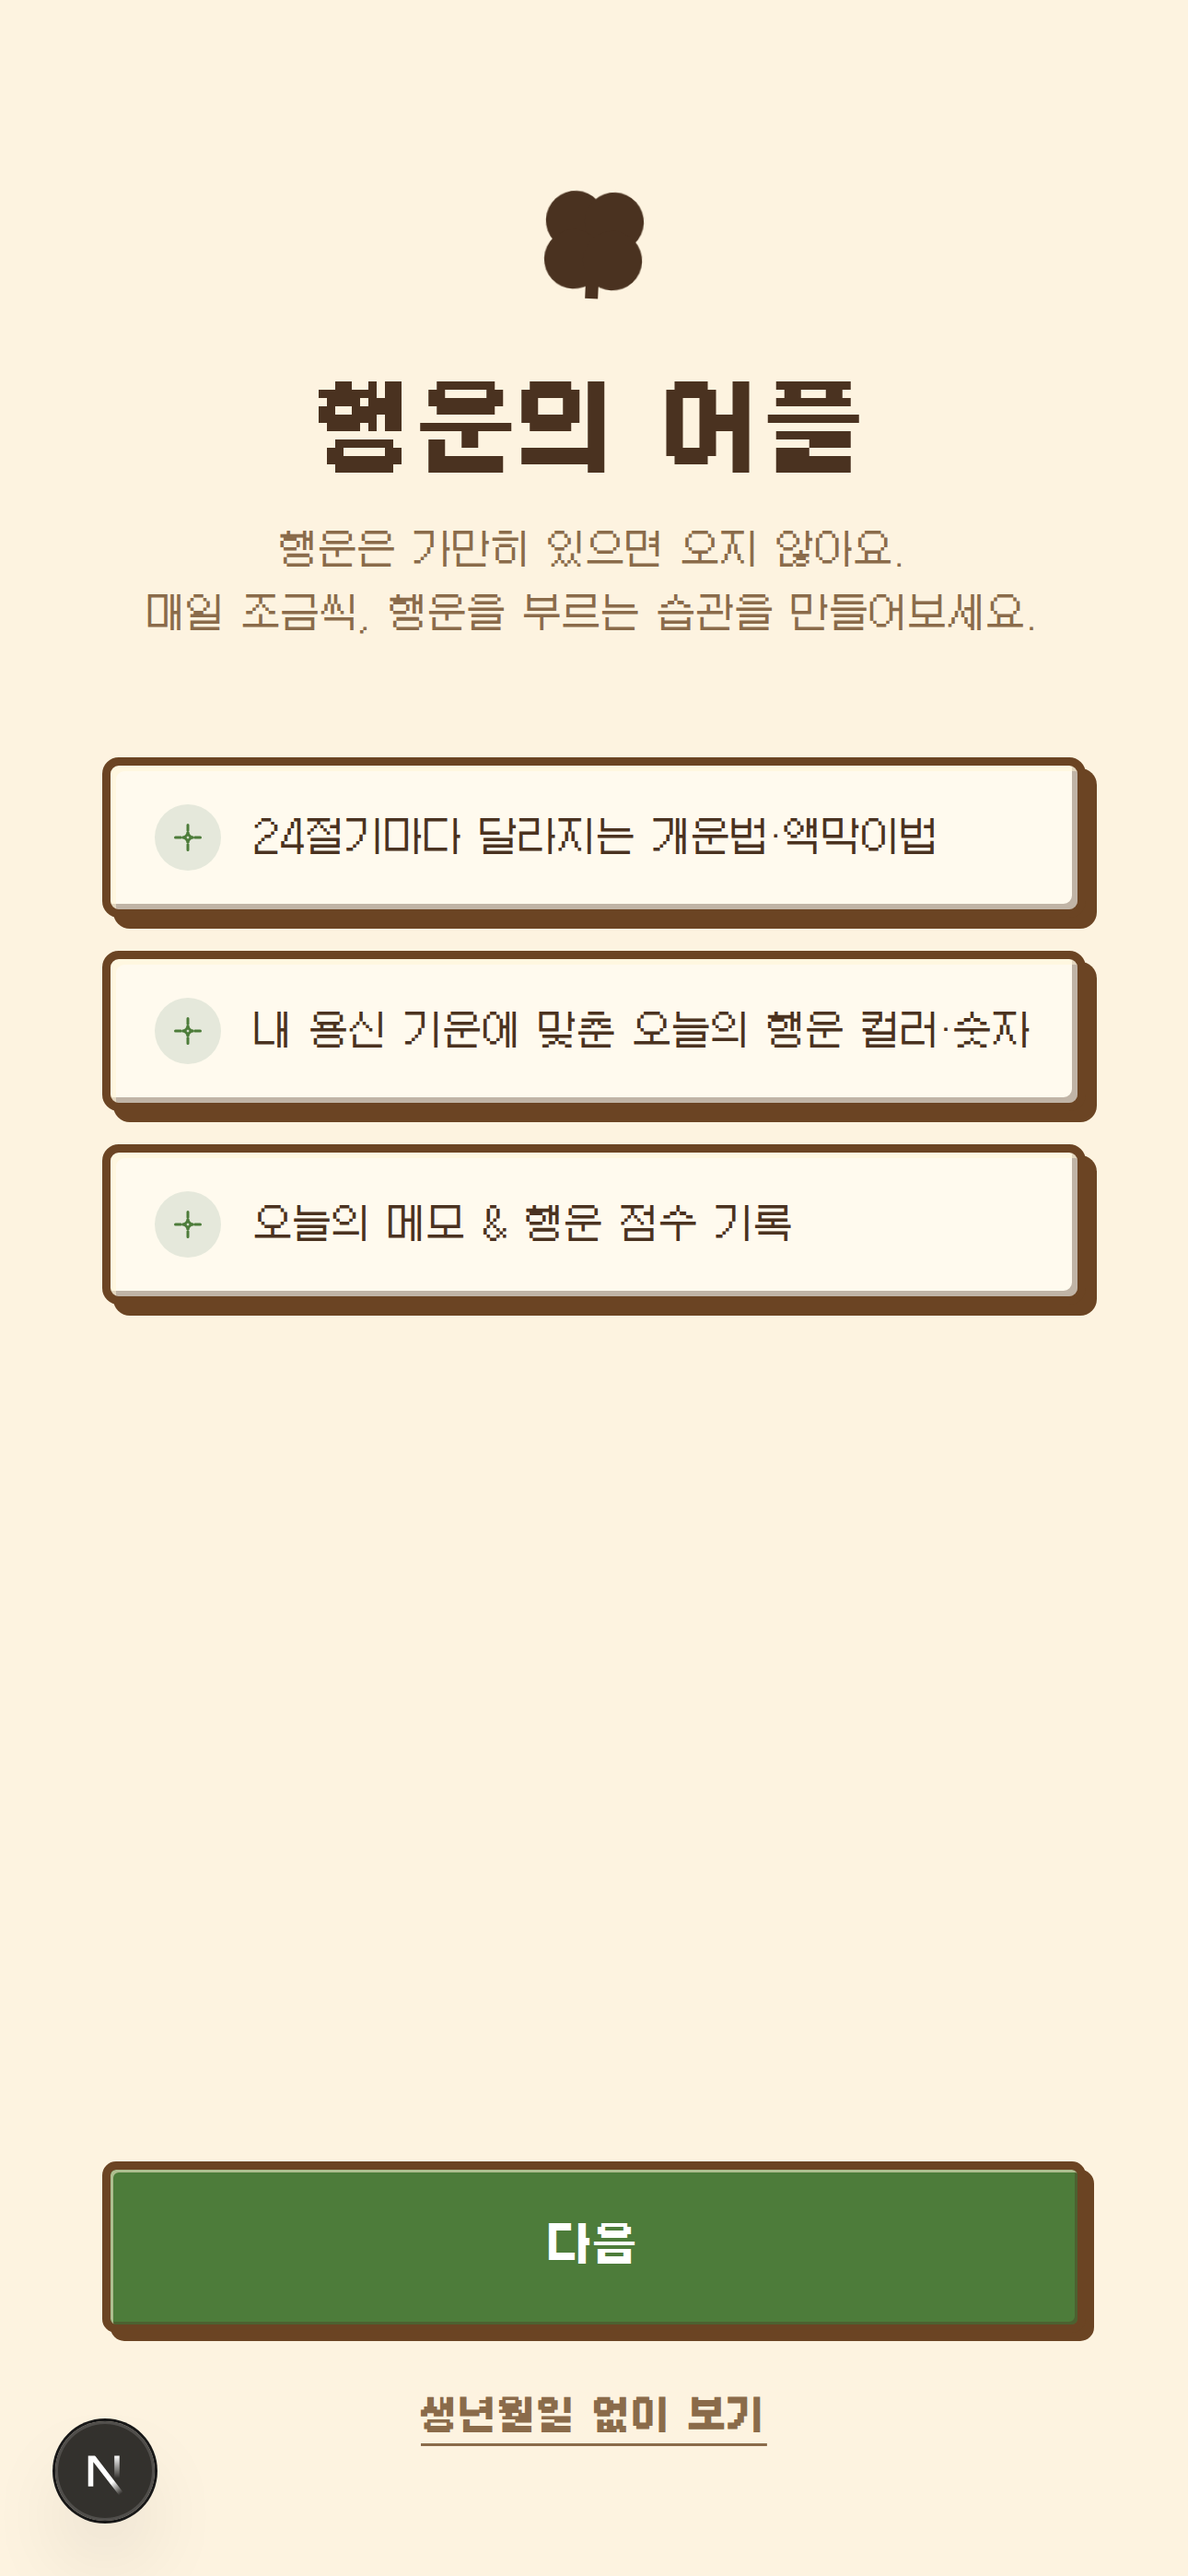
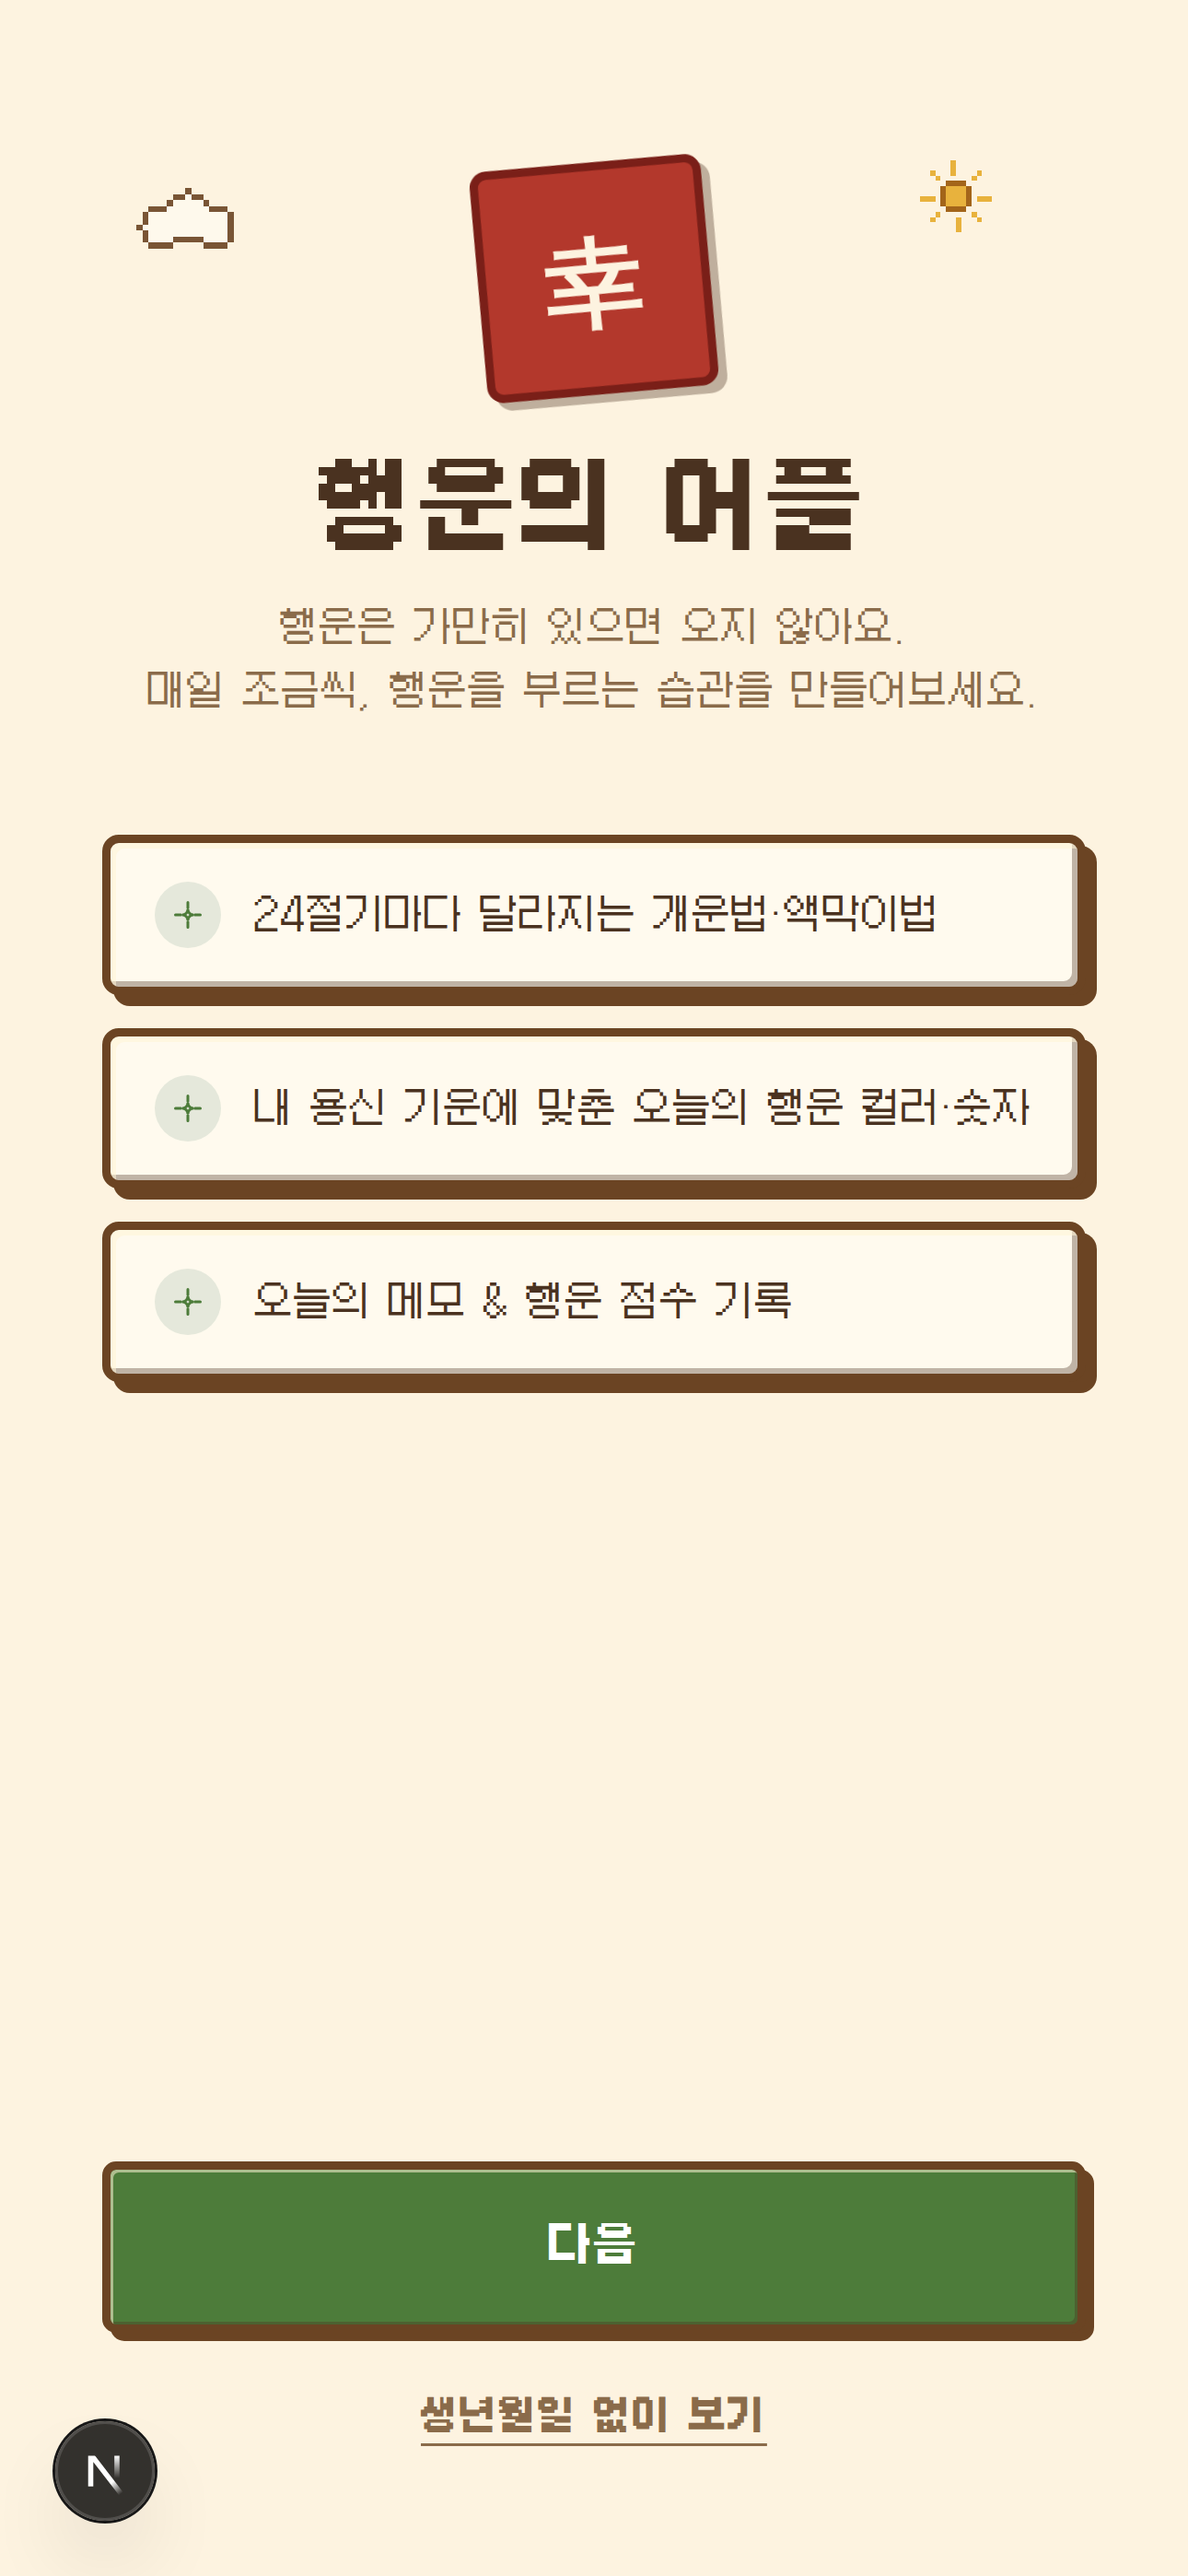
행운의 어플 — 픽셀아트 장식 추가 (해·구름·복주머니·행운 도장)
밋밋한 나무 패널 박스에 개성을 더하기 위해 좌표 계산 기반 픽셀아트 그래픽을 추가:
- components/PixelArt.tsx: 원/타원 방정식으로 실루엣을 만들고 가장자리만 다른 색으로
  칠해 픽셀아트 윤곽을 그리는 유틸 (makeMask/unionMask/outlineify/mergeGrids)
- components/LuckArt.tsx:
  · SunPixel/CloudPixel — 절기·날씨 맥락에 맞춘 해·구름 도트 장식 (헤더에 배치)
  · PouchPixel — 한국 전통 복주머니를 픽셀아트로, "행운 부르기" 카드 타이틀에 배치
  · LuckStamp — "幸" 글자를 담은 전통 도장(스탬프) 배지, 온보딩 첫 화면의 메인
    비주얼로 사용해 "행운"을 실제 그래픽 요소로 디자인화

Claude-Session: https://claude.ai/code/session_01QuVwrwWKVQ7ikTApTJqUn8

Changed region(s): [[0.062, 0.0622, 0.9302, 0.5601], [0.7752, 0.0622, 0.8372, 0.0933]]

diff --git a/luck-app/components/LuckArt.tsx b/luck-app/components/LuckArt.tsx
@@ -1,0 +1,90 @@
+"use client";
+import { PixelArt, makeMask, unionMask, outlineify, mergeGrids, type Grid } from "@/components/PixelArt";
+
+type ArtProps = { size?: number; className?: string; style?: React.CSSProperties };
+
+// ── 해 ────────────────────────────────────────────────────────────────────
+const SUN_W = 16, SUN_H = 16;
+function sunGrid(): Grid {
+  const cx = 8, cy = 8;
+  const core = makeMask(SUN_W, SUN_H, (x, y) => Math.hypot(x - cx, y - cy) <= 3.2);
+  const rayMask = makeMask(SUN_W, SUN_H, () => false);
+  for (let a = 0; a < 8; a++) {
+    const angle = (a * Math.PI) / 4;
+    for (const r of [4.6, 5.6, 6.6]) {
+      const px = Math.round(cx + r * Math.cos(angle) - 0.5);
+      const py = Math.round(cy + r * Math.sin(angle) - 0.5);
+      if (px >= 0 && py >= 0 && px < SUN_W && py < SUN_H) rayMask[py][px] = true;
+    }
+  }
+  const core2 = outlineify(core, "#e8b23d", "#a3651a");
+  const rays2 = outlineify(rayMask, "#e8b23d", "#e8b23d");
+  return mergeGrids(SUN_W, SUN_H, rays2, core2);
+}
+export function SunPixel({ size = 40, className, style }: ArtProps) {
+  return <PixelArt grid={sunGrid()} size={size} className={className} style={style} />;
+}
+
+// ── 구름 ──────────────────────────────────────────────────────────────────
+const CLOUD_W = 20, CLOUD_H = 12;
+function cloudGrid(): Grid {
+  const puffs = unionMask(
+    makeMask(CLOUD_W, CLOUD_H, (x, y) => Math.hypot(x - 6, y - 6.5) <= 3.6),
+    makeMask(CLOUD_W, CLOUD_H, (x, y) => Math.hypot(x - 10.5, y - 4.8) <= 4.3),
+    makeMask(CLOUD_W, CLOUD_H, (x, y) => Math.hypot(x - 15, y - 6.5) <= 3.4),
+    makeMask(CLOUD_W, CLOUD_H, (x, y) => x >= 4 && x <= 17 && y >= 6.5 && y <= 8.5),
+  );
+  return outlineify(puffs, "#fffaee", "#6b4423");
+}
+export function CloudPixel({ size = 48, className, style }: ArtProps) {
+  const grid = cloudGrid();
+  return <PixelArt grid={grid} size={size} className={className} style={style} />;
+}
+
+// ── 복주머니 (福 주머니) — 새해 복을 담는 전통 주머니 ─────────────────────────
+const POUCH_W = 14, POUCH_H = 16;
+function pouchGrid(): Grid {
+  const body = makeMask(POUCH_W, POUCH_H, (x, y) => {
+    const dx = (x - 7) / 5.6, dy = (y - 10.5) / 5.2;
+    return y >= 4.5 && dx * dx + dy * dy <= 1;
+  });
+  const neck = makeMask(POUCH_W, POUCH_H, (x, y) => x >= 5 && x <= 9 && y >= 2.5 && y <= 5.5);
+  const bodyLayer = outlineify(body, "#c0392b", "#6e1f16");
+  const neckLayer = outlineify(neck, "#d9a441", "#8a6420");
+  // 복(福) 자리를 상징하는 작은 금박 점 장식
+  const dot = makeMask(POUCH_W, POUCH_H, (x, y) => Math.hypot(x - 7, y - 10.5) <= 1.3);
+  const dotLayer = outlineify(dot, "#f0c95a", "#d9a441");
+  const merged = mergeGrids(POUCH_W, POUCH_H, bodyLayer, dotLayer, neckLayer);
+  // 매듭 끈 두 가닥
+  for (const cx of [5, 9]) {
+    for (let y = 0; y <= 2; y++) merged[y][cx] = "#8a6420";
+  }
+  return merged;
+}
+export function PouchPixel({ size = 48, className, style }: ArtProps) {
+  return <PixelArt grid={pouchGrid()} size={size} className={className} style={style} />;
+}
+
+// ── "행운" 도장(스탬프) — 전통 도장을 본뜬 배지 ───────────────────────────────
+export function LuckStamp({ size = 88, rotate = -8, text = "幸" }: { size?: number; rotate?: number; text?: string }) {
+  return (
+    <div
+      style={{
+        width: size, height: size,
+        background: "#b3382c",
+        border: "3px solid #7a1f18",
+        borderRadius: 6,
+        display: "flex", alignItems: "center", justifyContent: "center",
+        transform: `rotate(${rotate}deg)`,
+        boxShadow: "3px 3px 0 rgba(74,50,32,0.35)",
+        color: "#fdf3e0",
+        fontFamily: "Galmuri, sans-serif",
+        fontWeight: 700,
+        fontSize: size * 0.42,
+        lineHeight: 1,
+      }}
+    >
+      {text}
+    </div>
+  );
+}

diff --git a/luck-app/components/PixelArt.tsx b/luck-app/components/PixelArt.tsx
@@ -1,0 +1,65 @@
+// components/PixelArt.tsx — 도트(픽셀아트) 그래픽을 좌표 계산으로 그리는 유틸.
+// 손으로 한 줄씩 아스키 그림을 세는 대신, 원/타원 방정식으로 실루엣(mask)을 만들고
+// 가장자리 픽셀만 다른 색(테두리)으로 바꿔주는 방식이라 비율이 정확하고 고치기도 쉽다.
+export type Grid = (string | null)[][];
+
+export function PixelArt({ grid, size = 48, className, style }: { grid: Grid; size?: number; className?: string; style?: React.CSSProperties }) {
+  const rows = grid.length;
+  const cols = grid[0]?.length ?? rows;
+  const cellSize = size / cols;
+  const height = rows * cellSize;
+  return (
+    <svg width={size} height={height} viewBox={`0 0 ${cols} ${rows}`} className={className} style={style} shapeRendering="crispEdges">
+      {grid.map((row, y) => row.map((color, x) => (color ? <rect key={`${x}-${y}`} x={x} y={y} width={1} height={1} fill={color} /> : null)))}
+    </svg>
+  );
+}
+
+export function makeMask(w: number, h: number, test: (x: number, y: number) => boolean): boolean[][] {
+  const mask: boolean[][] = [];
+  for (let y = 0; y < h; y++) {
+    const row: boolean[] = [];
+    for (let x = 0; x < w; x++) row.push(test(x + 0.5, y + 0.5));
+    mask.push(row);
+  }
+  return mask;
+}
+
+export function unionMask(...masks: boolean[][][]): boolean[][] {
+  const h = masks[0].length, w = masks[0][0].length;
+  const out: boolean[][] = [];
+  for (let y = 0; y < h; y++) {
+    const row: boolean[] = [];
+    for (let x = 0; x < w; x++) row.push(masks.some((m) => m[y][x]));
+    out.push(row);
+  }
+  return out;
+}
+
+// 실루엣(mask)을 채우고, 바깥과 맞닿은 픽셀만 테두리색으로 바꿔서 또렷한 픽셀아트 윤곽을 만든다.
+export function outlineify(mask: boolean[][], fillColor: string, outlineColor: string): Grid {
+  const h = mask.length, w = mask[0].length;
+  const grid: Grid = [];
+  for (let y = 0; y < h; y++) {
+    const row: (string | null)[] = [];
+    for (let x = 0; x < w; x++) {
+      if (!mask[y][x]) { row.push(null); continue; }
+      const isEdge = [[1, 0], [-1, 0], [0, 1], [0, -1]].some(([dx, dy]) => {
+        const nx = x + dx, ny = y + dy;
+        return nx < 0 || ny < 0 || nx >= w || ny >= h || !mask[ny][nx];
+      });
+      row.push(isEdge ? outlineColor : fillColor);
+    }
+    grid.push(row);
+  }
+  return grid;
+}
+
+// 여러 Grid를 겹쳐 그린다 (나중 것이 위에 그려짐, null은 투명이라 아래 레이어가 비쳐 보임)
+export function mergeGrids(w: number, h: number, ...layers: Grid[]): Grid {
+  const out: Grid = Array.from({ length: h }, () => Array<string | null>(w).fill(null));
+  for (const layer of layers) {
+    for (let y = 0; y < h; y++) for (let x = 0; x < w; x++) if (layer[y]?.[x]) out[y][x] = layer[y][x];
+  }
+  return out;
+}

diff --git a/luck-app/app/page.tsx b/luck-app/app/page.tsx
@@ -3,6 +3,7 @@ import { useEffect, useMemo, useRef, useState } from "react";
 import BirthInputForm, { defaultProfile } from "@/components/BirthInputForm";
 import OnboardingWizard from "@/components/OnboardingWizard";
 import { CloverIcon, MemoIcon, ChartIcon, GearIcon, SparkleIcon } from "@/components/Icons";
+import { SunPixel, CloudPixel, PouchPixel } from "@/components/LuckArt";
 import { analyzeSaju } from "@/lib/saju";
 import { getDailyLuck, getKstDateKey, type DailyLuck } from "@/lib/luckEngine";
 import {
@@ -263,16 +264,24 @@ export default function HomePage() {
     <main className="min-h-screen page-fade-in" style={{ background: "var(--bg)" }}>
       <div className="max-w-lg mx-auto px-5 pb-28">
         <FadeIn>
-          <div className="pt-8 pb-2">
-            <p className="text-xs font-bold tracking-widest uppercase" style={{ color: "var(--clover)" }}>
-              {todayLabel} · {luck.term.season}
-            </p>
-            <h1 className="font-display text-3xl mt-1" style={{ color: "var(--ink)" }}>
-              {tab === "today" && "오늘의 행운"}
-              {tab === "memo" && "오늘의 메모"}
-              {tab === "log" && "행운 기록"}
-              {tab === "settings" && "설정"}
-            </h1>
+          <div className="pt-8 pb-2 flex items-start justify-between">
+            <div>
+              <p className="text-xs font-bold tracking-widest uppercase" style={{ color: "var(--clover)" }}>
+                {todayLabel} · {luck.term.season}
+              </p>
+              <h1 className="font-display text-3xl mt-1" style={{ color: "var(--ink)" }}>
+                {tab === "today" && "오늘의 행운"}
+                {tab === "memo" && "오늘의 메모"}
+                {tab === "log" && "행운 기록"}
+                {tab === "settings" && "설정"}
+              </h1>
+            </div>
+            {tab === "today" && (
+              <div className="flex items-center gap-1 shrink-0 pt-1">
+                <CloudPixel size={30} />
+                <SunPixel size={24} />
+              </div>
+            )}
           </div>
         </FadeIn>
 
@@ -286,8 +295,8 @@ export default function HomePage() {
 
             <FadeIn delay={40}>
               <Card>
-                <div className="flex items-center gap-1.5 mb-2">
-                  <CloverIcon size={16} style={{ color: "var(--amber)" }} />
+                <div className="flex items-center gap-2 mb-2">
+                  <PouchPixel size={28} />
                   <p className="font-display text-base" style={{ color: "var(--amber)" }}>행운 부르기</p>
                 </div>
                 <p className="text-sm mb-3 leading-relaxed" style={{ color: "var(--ink-soft)" }}>

diff --git a/luck-app/components/OnboardingWizard.tsx b/luck-app/components/OnboardingWizard.tsx
@@ -1,7 +1,8 @@
 "use client";
 import { useState } from "react";
 import type { SajuProfile } from "@/lib/storage";
-import { CloverIcon, MemoIcon } from "@/components/Icons";
+import { MemoIcon } from "@/components/Icons";
+import { LuckStamp, SunPixel, CloudPixel } from "@/components/LuckArt";
 
 const HOURS = [
   { v: "unknown", label: "시간 모름" },
@@ -87,8 +88,12 @@ export default function OnboardingWizard({
     return (
       <main className="min-h-screen page-fade-in flex flex-col" style={{ background: "var(--bg)" }}>
         <div className="max-w-lg mx-auto px-6 pt-16 pb-10 flex-1 flex flex-col">
-          <div className="text-center">
-            <CloverIcon size={56} className="mx-auto mb-4 float-leaf" />
+          <div className="text-center relative">
+            <SunPixel size={30} className="absolute -top-2 right-8" />
+            <CloudPixel size={44} className="absolute top-1 left-2 opacity-90" />
+            <div className="flex justify-center mb-4 float-leaf">
+              <LuckStamp size={84} />
+            </div>
             <h1 className="font-display text-4xl" style={{ color: "var(--ink)" }}>행운의 어플</h1>
             <p className="text-sm mt-3 leading-relaxed" style={{ color: "var(--ink-soft)" }}>
               행운은 가만히 있으면 오지 않아요.<br />매일 조금씩, 행운을 부르는 습관을 만들어보세요.
